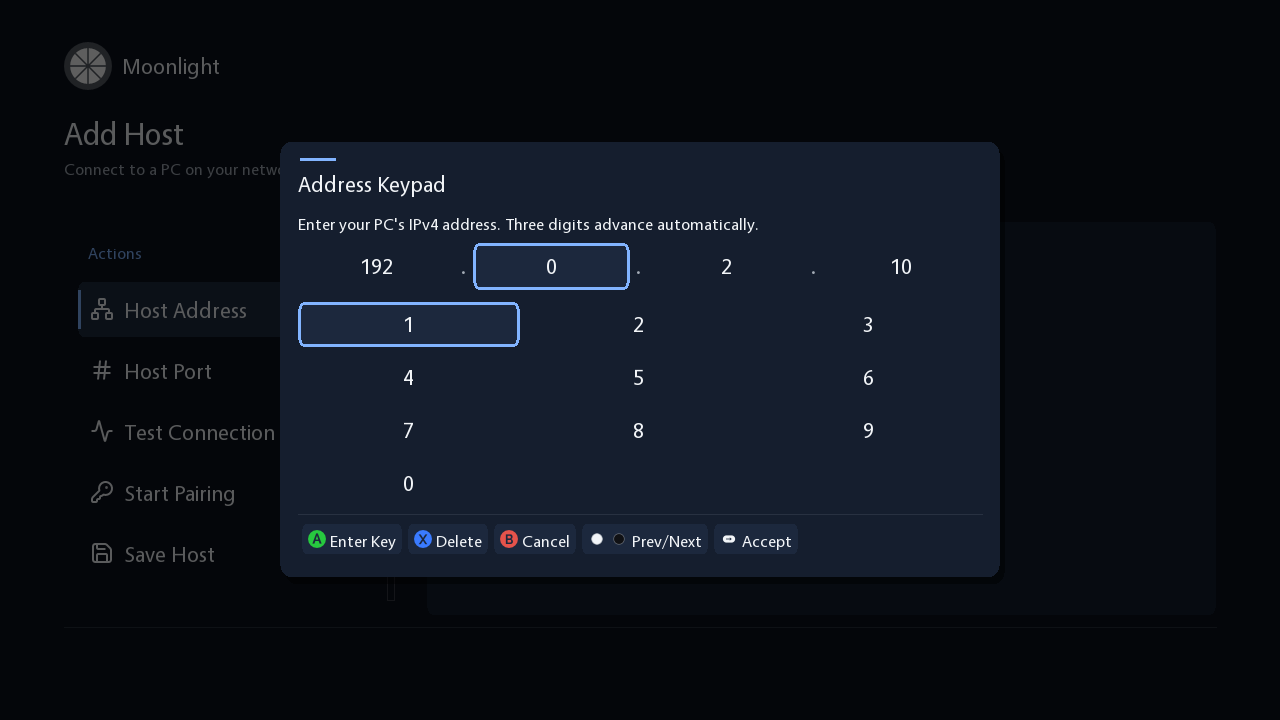
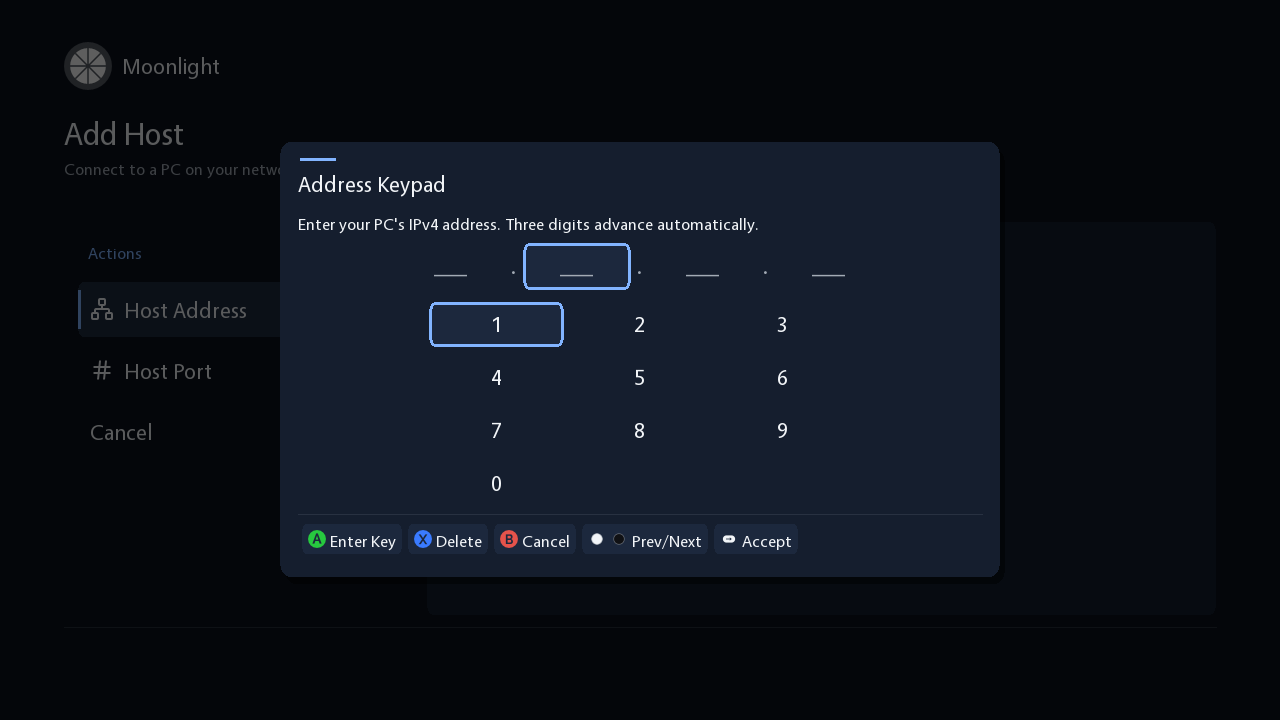
fix(ui): anchor settings rows and tighten numeric entry

diff --git a/src/ui/shell_screen.cpp b/src/ui/shell_screen.cpp
@@ -3728,7 +3728,7 @@ namespace {
   }
 
   /**
-   * @brief Render the selected setting's contextual help above its scrollable options.
+   * @brief Render settings in stable font-based regions so changing values cannot shift the options.
    *
    * @param renderer Active shell renderer.
    * @param bodyFont Font for options.
@@ -3747,24 +3747,18 @@ namespace {
     int panelPadding
   ) {
     const int innerWidth = bodyPanel.w - panelPadding * 2;
-    const int headerHeight = TTF_FontLineSkip(smallFont) + 8;
     const int rowHeight = std::max(34, TTF_FontLineSkip(bodyFont) + 12);
     const int innerHeight = bodyPanel.h - panelPadding * 2;
-    const int descriptionHeight = std::min(innerHeight / 2, measure_body_lines_height(smallFont, {viewModel.content.selectedMenuRowLabel, viewModel.content.selectedMenuRowDescription}, innerWidth, 6));
-    const SDL_Rect descriptionRect {bodyPanel.x + panelPadding, bodyPanel.y + panelPadding, innerWidth, descriptionHeight};
+    const auto layout = ui::calculate_settings_detail_layout({bodyPanel.x + panelPadding, bodyPanel.y + panelPadding, innerWidth, innerHeight}, TTF_FontLineSkip(smallFont));
     // SDL 2.0.9's software command queue starts each flush without a viewport.
     // A standalone SDL_RenderSetClipRect() after a text texture flush can assert
     // in SW_RunCommandQueue. Crop text textures instead of changing render clips.
-    int labelHeight = 0;
-    bool success = render_bounded_text(renderer, smallFont, viewModel.content.selectedMenuRowLabel, {TEXT_RED, TEXT_GREEN, TEXT_BLUE, 0xFF}, descriptionRect, &labelHeight);
-    if (success) {
-      const int helpY = descriptionRect.y + labelHeight + 6;
-      success = render_bounded_text(renderer, smallFont, viewModel.content.selectedMenuRowDescription, {MUTED_RED, MUTED_GREEN, MUTED_BLUE, 0xFF}, {descriptionRect.x, helpY, innerWidth, descriptionRect.y + descriptionRect.h - helpY});
-    }
-    const int optionsHeaderY = descriptionRect.y + descriptionRect.h + 20;
-    draw_line(renderer, descriptionRect.x, optionsHeaderY - 10, descriptionRect.x + descriptionRect.w, optionsHeaderY - 10, MUTED_RED, MUTED_GREEN, MUTED_BLUE, 0x30);
-    const SDL_Rect optionsRect {descriptionRect.x, optionsHeaderY + headerHeight, innerWidth, std::max(1, bodyPanel.y + bodyPanel.h - panelPadding - optionsHeaderY - headerHeight)};
-    return success && render_text_line_simple(renderer, smallFont, "Options", {MUTED_RED, MUTED_GREEN, MUTED_BLUE, 0xFF}, descriptionRect.x, optionsHeaderY, innerWidth) && render_action_rows(renderer, bodyFont, viewModel.content.detailMenuRows, optionsRect, rowHeight, nullptr, viewModel.content.rightPanelActive);
+    // Legacy SDL_ttf derives surface height from the actual glyphs, so measured
+    // numeric values must not determine the help or option-row positions.
+    const bool success = render_text_line_simple(renderer, smallFont, viewModel.content.selectedMenuRowLabel, {TEXT_RED, TEXT_GREEN, TEXT_BLUE, 0xFF}, layout.title.x, layout.title.y, layout.title.w) &&
+                         render_bounded_text(renderer, smallFont, viewModel.content.selectedMenuRowDescription, {MUTED_RED, MUTED_GREEN, MUTED_BLUE, 0xFF}, sdl_rect(layout.description));
+    draw_line(renderer, layout.optionsHeader.x, layout.optionsHeader.y - 10, layout.optionsHeader.x + layout.optionsHeader.w, layout.optionsHeader.y - 10, MUTED_RED, MUTED_GREEN, MUTED_BLUE, 0x30);
+    return success && render_text_line_simple(renderer, smallFont, "Options", {MUTED_RED, MUTED_GREEN, MUTED_BLUE, 0xFF}, layout.optionsHeader.x, layout.optionsHeader.y, layout.optionsHeader.w) && render_action_rows(renderer, bodyFont, viewModel.content.detailMenuRows, sdl_rect(layout.options), rowHeight, nullptr, viewModel.content.rightPanelActive);
   }
 
   /**
@@ -3923,7 +3917,7 @@ namespace {
   }
 
   /**
-   * @brief Render numeric entry with segmented IPv4 fields, rounded keys and contained controls.
+   * @brief Render numeric entry with compact centered IPv4 sections and key columns.
    *
    * @param renderer Active renderer.
    * @param bodyFont Heading, input and key font.
@@ -3965,9 +3959,9 @@ namespace {
     const SDL_Rect valueRect {bounds.x + padding, cursorY + 2, innerWidth, valueHeight};
     if (viewModel.keypad.segmentedAddress) {
       const int separatorWidth = 18;
-      const int octetWidth = (valueRect.w - separatorWidth * 3) / 4;
+      const auto octets = ui::calculate_keypad_columns({valueRect.x, valueRect.y, valueRect.w, valueRect.h}, viewModel.keypad.addressOctets.size(), TTF_FontLineSkip(bodyFont) * 4, separatorWidth);
       for (std::size_t index = 0; index < viewModel.keypad.addressOctets.size(); ++index) {
-        const SDL_Rect octetRect {valueRect.x + static_cast<int>(index) * (octetWidth + separatorWidth), valueRect.y, octetWidth, valueRect.h};
+        const SDL_Rect octetRect = sdl_rect(octets[index]);
         render_card_surface(renderer, octetRect, index == viewModel.keypad.activeOctet);
         const auto &digits = viewModel.keypad.addressOctets[index];
         const SDL_Color color = digits.empty() ? SDL_Color {MUTED_RED, MUTED_GREEN, MUTED_BLUE, 0xFF} : SDL_Color {TEXT_RED, TEXT_GREEN, TEXT_BLUE, 0xFF};
@@ -3987,7 +3981,7 @@ namespace {
     const int keysY = valueRect.y + valueRect.h + 12;
     const int footerY = bounds.y + bounds.h - padding - footerHeight;
     const int keyHeight = std::max(1, (footerY - 12 - keysY - gap * (rows - 1)) / rows);
-    const int keyWidth = (innerWidth - gap * (columns - 1)) / columns;
+    const auto keyColumns = ui::calculate_keypad_columns({bounds.x + padding, keysY, innerWidth, keyHeight}, static_cast<std::size_t>(columns), TTF_FontLineSkip(bodyFont) * 5, gap);
     if (cache->buttonLabelTextures.size() > viewModel.keypad.buttons.size()) {
       for (std::size_t index = viewModel.keypad.buttons.size(); index < cache->buttonLabelTextures.size(); ++index) {
         clear_cached_text_texture(&cache->buttonLabelTextures[index]);
@@ -3995,7 +3989,8 @@ namespace {
     }
     cache->buttonLabelTextures.resize(viewModel.keypad.buttons.size());
     for (std::size_t index = 0; index < viewModel.keypad.buttons.size(); ++index) {
-      const SDL_Rect key {bounds.x + padding + static_cast<int>(index % columns) * (keyWidth + gap), keysY + static_cast<int>(index / columns) * (keyHeight + gap), keyWidth, keyHeight};
+      const auto &column = keyColumns[index % columns];
+      const SDL_Rect key {column.x, keysY + static_cast<int>(index / columns) * (keyHeight + gap), column.w, keyHeight};
       const auto &button = viewModel.keypad.buttons[index];
       render_card_surface(renderer, key, button.selected);
       if (!ensure_single_line_text_texture(renderer, bodyFont, button.label, {TEXT_RED, TEXT_GREEN, TEXT_BLUE, 0xFF}, key.w, &cache->buttonLabelTextures[index]) || !render_cached_centered_text_texture(renderer, cache->buttonLabelTextures[index], key)) {

diff --git a/tests/unit/ui/shell_layout_test.cpp b/tests/unit/ui/shell_layout_test.cpp
@@ -6,6 +6,7 @@
 #include <lizardbyte/common/testing.h>
 
 // standard includes
+#include <cstdlib>
 #include <limits>
 #include <utility>
 
@@ -13,6 +14,98 @@
 #include "src/ui/shell_layout.h"
 
 namespace {
+
+  /**
+   * @brief Keep settings rows anchored when headings or help wrap differently.
+   */
+  TEST(ShellLayoutTest, AnchorsSettingsOptionsIndependentlyOfTextWidth) {
+    for (const auto [width, height] : {std::pair {640, 480}, {1280, 720}, {1920, 1080}}) {
+      const auto shell = ui::calculate_shell_layout(width, height);
+      const auto panel = ui::calculate_settings_panel(shell);
+      const int padding = 14;
+      const ui::ShellRect interior {panel.x + padding, panel.y + padding, panel.w - padding * 2, panel.h - padding * 2};
+      const int lineHeight = height / 40;
+      const auto normal = ui::calculate_settings_detail_layout(interior, lineHeight);
+      auto narrower = interior;
+      narrower.w /= 2;
+      const auto wrapped = ui::calculate_settings_detail_layout(narrower, lineHeight);
+      EXPECT_EQ(normal.description.y, wrapped.description.y);
+      EXPECT_EQ(normal.description.h, wrapped.description.h);
+      EXPECT_EQ(normal.options.y, wrapped.options.y);
+      EXPECT_EQ(normal.options.h, wrapped.options.h);
+      EXPECT_GE(normal.description.h, lineHeight * 4);
+      EXPECT_GT(normal.description.y, normal.title.y + normal.title.h);
+      EXPECT_GT(normal.optionsHeader.y, normal.description.y + normal.description.h);
+      EXPECT_EQ(normal.options.y, normal.optionsHeader.y + normal.optionsHeader.h);
+      EXPECT_EQ(normal.options.y + normal.options.h, interior.y + interior.h);
+      EXPECT_GE(normal.options.h, interior.h / 3);
+    }
+  }
+
+  /**
+   * @brief Bound settings regions in tiny panels and reject unusable layout inputs.
+   */
+  TEST(ShellLayoutTest, BoundsSettingsHelpInSmallAreas) {
+    const auto compact = ui::calculate_settings_detail_layout({10, 20, 50, 30}, 20);
+    for (const auto rect : {compact.title, compact.description, compact.optionsHeader, compact.options}) {
+      EXPECT_GE(rect.y, 20);
+      EXPECT_GE(rect.h, 0);
+      EXPECT_LE(rect.y + rect.h, 50);
+    }
+    EXPECT_EQ(ui::calculate_settings_detail_layout({0, 0, 0, 100}, 16).options.h, 0);
+    EXPECT_EQ(ui::calculate_settings_detail_layout({0, 0, 100, 0}, 16).options.h, 0);
+    EXPECT_EQ(ui::calculate_settings_detail_layout({0, 0, 100, 100}, 0).options.h, 0);
+  }
+
+  /**
+   * @brief Numeric key and IPv4 columns stay compact and centered at SD and HD sizes.
+   */
+  TEST(ShellLayoutTest, CentersCompactNumericColumnsWithinWideDialogs) {
+    for (const int width : {476, 684}) {
+      for (const std::size_t count : {3U, 4U}) {
+        const ui::ShellRect bounds {30, 70, width, 40};
+        const int gap = count == 4U ? 18 : 8;
+        const auto columns = ui::calculate_keypad_columns(bounds, count, 80, gap);
+        ASSERT_EQ(columns.size(), count);
+        EXPECT_GT(columns.front().x, bounds.x);
+        const int right = columns.back().x + columns.back().w;
+        EXPECT_LE(std::abs((columns.front().x - bounds.x) - (bounds.x + bounds.w - right)), 1);
+        for (std::size_t index = 0; index < columns.size(); ++index) {
+          EXPECT_EQ(columns[index].w, 80);
+          EXPECT_EQ(columns[index].y, bounds.y);
+          EXPECT_EQ(columns[index].h, bounds.h);
+          if (index > 0U) {
+            EXPECT_EQ(columns[index].x - columns[index - 1U].x - columns[index - 1U].w, gap);
+          }
+        }
+      }
+    }
+  }
+
+  /**
+   * @brief Compact columns shrink to fit without negative spacing or zero-width keys.
+   */
+  TEST(ShellLayoutTest, FitsNumericColumnsIntoNarrowAreas) {
+    const auto narrow = ui::calculate_keypad_columns({5, 10, 100, 30}, 3U, 80, 8);
+    ASSERT_EQ(narrow.size(), 3U);
+    EXPECT_EQ(narrow.front().x, 5);
+    EXPECT_EQ(narrow.back().x + narrow.back().w, 105);
+    EXPECT_EQ(narrow.front().w, 28);
+    const auto crowded = ui::calculate_keypad_columns({0, 0, 4, 10}, 3U, 50, 18);
+    ASSERT_EQ(crowded.size(), 3U);
+    EXPECT_EQ(crowded.front().w, 1);
+    const auto single = ui::calculate_keypad_columns({0, 0, 100, 10}, 1U, 20, 18);
+    ASSERT_EQ(single.size(), 1U);
+    EXPECT_EQ(single.front().x, 40);
+    const auto minimum = ui::calculate_keypad_columns({0, 0, 100, 10}, 3U, 0, -10);
+    ASSERT_EQ(minimum.size(), 3U);
+    EXPECT_EQ(minimum.front().w, 1);
+    EXPECT_EQ(minimum[1].x, minimum[0].x + 1);
+    EXPECT_TRUE(ui::calculate_keypad_columns({0, 0, 0, 10}, 3U, 80, 8).empty());
+    EXPECT_TRUE(ui::calculate_keypad_columns({0, 0, 100, 0}, 3U, 80, 8).empty());
+    EXPECT_TRUE(ui::calculate_keypad_columns({0, 0, 100, 10}, 0U, 80, 8).empty());
+    EXPECT_TRUE(ui::calculate_keypad_columns({0, 0, 2, 10}, 3U, 80, 8).empty());
+  }
 
   /**
    * @brief Fit concurrent cards above the footer without overlapping on SD or HD output.

diff --git a/src/ui/shell_layout.cpp b/src/ui/shell_layout.cpp
@@ -35,6 +35,40 @@ namespace ui {
     return {x, layout.navigation.y, layout.content.x + layout.content.w - x, layout.footer.y - layout.gap - layout.navigation.y};
   }
 
+  ShellSettingsDetailLayout calculate_settings_detail_layout(ShellRect bounds, int lineHeight) {
+    if (bounds.w <= 0 || bounds.h <= 0 || lineHeight <= 0) {
+      return {};
+    }
+    const int helpHeight = std::min(bounds.h / 2, lineHeight * 5 + 6);
+    const int titleHeight = std::min(lineHeight, helpHeight);
+    const int descriptionY = bounds.y + std::min(helpHeight, titleHeight + 6);
+    const int headerY = bounds.y + std::min(bounds.h, helpHeight + 20);
+    const int headerHeight = std::min(lineHeight + 8, bounds.y + bounds.h - headerY);
+    const int optionsY = headerY + headerHeight;
+    return {
+      {bounds.x, bounds.y, bounds.w, titleHeight},
+      {bounds.x, descriptionY, bounds.w, bounds.y + helpHeight - descriptionY},
+      {bounds.x, headerY, bounds.w, headerHeight},
+      {bounds.x, optionsY, bounds.w, bounds.y + bounds.h - optionsY},
+    };
+  }
+
+  std::vector<ShellRect> calculate_keypad_columns(ShellRect bounds, std::size_t columnCount, int preferredWidth, int gap) {
+    if (bounds.w <= 0 || bounds.h <= 0 || columnCount == 0U || columnCount > static_cast<std::size_t>(bounds.w)) {
+      return {};
+    }
+    const int columns = static_cast<int>(columnCount);
+    const int spacing = columns == 1 ? 0 : std::clamp(gap, 0, (bounds.w - columns) / (columns - 1));
+    const int columnWidth = std::clamp(preferredWidth, 1, (bounds.w - spacing * (columns - 1)) / columns);
+    const int groupWidth = columnWidth * columns + spacing * (columns - 1);
+    const int startX = bounds.x + (bounds.w - groupWidth) / 2;
+    std::vector<ShellRect> result;
+    for (int column = 0; column < columns; ++column) {
+      result.push_back({startX + column * (columnWidth + spacing), bounds.y, columnWidth, bounds.h});
+    }
+    return result;
+  }
+
   ShellRect calculate_shell_dialog(int width, int height, int desiredWidth, int desiredHeight) {
     const int w = std::clamp(desiredWidth, 1, std::max(1, width - width / 10));
     const int h = std::clamp(desiredHeight, 1, std::max(1, height - height / 10));

diff --git a/src/ui/shell_layout.h b/src/ui/shell_layout.h
@@ -35,6 +35,16 @@ namespace ui {
   };
 
   /**
+   * @brief Stable settings help and options regions independent of the selected value's glyphs.
+   */
+  struct ShellSettingsDetailLayout {
+    ShellRect title;  ///< Single-line selected setting or category title.
+    ShellRect description;  ///< Reserved contextual help area.
+    ShellRect optionsHeader;  ///< Options heading below the help divider.
+    ShellRect options;  ///< Scrollable settings rows.
+  };
+
+  /**
    * @brief Visible rows in a grid that keeps the selected item on screen.
    */
   struct ShellGridLayout {
@@ -64,6 +74,26 @@ namespace ui {
    * @return Detail panel bounded by the top and footer safe margins.
    */
   ShellRect calculate_settings_panel(const ShellLayout &layout);
+
+  /**
+   * @brief Anchor settings options below a fixed font-based help area.
+   *
+   * @param bounds Padded interior of the settings panel.
+   * @param lineHeight Supporting font's line spacing.
+   * @return Stable title, help and options bounds; empty when the inputs are invalid.
+   */
+  ShellSettingsDetailLayout calculate_settings_detail_layout(ShellRect bounds, int lineHeight);
+
+  /**
+   * @brief Center compact numeric columns while preserving their size on wider dialogs.
+   *
+   * @param bounds Available input or keypad row area.
+   * @param columnCount Number of equal-width columns.
+   * @param preferredWidth Preferred width of each numeric field or key.
+   * @param gap Space between adjacent columns.
+   * @return Left-to-right column bounds; empty when the area cannot hold the columns.
+   */
+  std::vector<ShellRect> calculate_keypad_columns(ShellRect bounds, std::size_t columnCount, int preferredWidth, int gap);
 
   /**
    * @brief Center a dialog inside television-safe margins.

diff --git a/README.md b/README.md
@@ -45,8 +45,9 @@ actions. Move up from the first PC row to reach Settings, Support and Add Host.
 PCs use grayscale moon artwork inspired by One: a full moon for paired online PCs, a half moon for
 online PCs awaiting pairing, and a crescent for offline PCs. A separate orbit shows controller focus.
 
-Settings categories have icons and the detail panel extends beside the page heading, with help for
-the selected item above its options. Dialogs contain their controller actions. IPv4 entry has four
+Settings categories have icons and the detail panel extends beside the page heading, with a fixed help
+area above its options so changing values keeps the list in place. Dialogs contain their controller
+actions. Number pads use compact centered columns. IPv4 entry has four
 sections with fixed periods: three digits advance automatically, and **White / Black** move
 between sections. A new digit replaces a section after switching to it; **X** deletes the last digit.
 Connection, pairing and save actions appear after a host address has been entered. **Test Connection**
